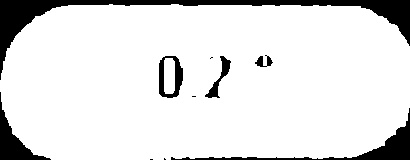
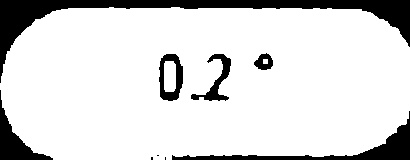
cambios proto OCR v03

diff --git a/Prototipos/OCR 1/T_B.py b/Prototipos/OCR 1/T_B.py
@@ -20,56 +20,22 @@ from skimage.filters import threshold_multiotsu
 import imutils
 
 
-image_file='captura5off.jpg'
+image_file='cap1long.jpg'
 img = cv2.imread(image_file)
-hsv = cv2.cvtColor(img,cv2.COLOR_BGR2RGB)
+pic=cv2.cvtColor(img,cv2.COLOR_BGR2RGB)
 
-
-def dibujo_contornos(picture):
-    imagen = picture
-    blurred = cv2.GaussianBlur(imagen, (5, 5), 0)
-    lower = np.array([39, 40, 38])
-    upper = np.array([55, 57, 75])
-    mask = cv2.inRange(blurred, lower, upper)
-    contours , _ = cv2.findContours(mask, cv2.RETR_TREE, cv2.CHAIN_APPROX_NONE)
-    for contour in contours:
-        area = cv2.contourArea(contour)
-        if area > 5000:
-            cv2.drawContours(imagen, contour, -1, (0, 255, 0), 3)
-            M = cv2.moments(contour)
-            cx = int(M["m10"]/M["m00"])
-            cy = int(M["m01"]/M["m00"])
-            #cv2.circle(imagen,(cx,cy),7,(255,255,255),-1)
-    return imagen,cx,cy
-imagenf,cx,cy=dibujo_contornos(hsv)
-
-def crop_img(image,cx,cy):#,x,y):#imgnp
-    fig0=image[ cy-40:cy+40,cx-100:cx+105,:]
-    return fig0
-imfig=crop_img(hsv,cx,cy)
-#GRaficas
-
-fig, ax = plt.subplots(nrows=1, ncols=2, figsize=(10, 3.5))
-
-# Plotting the original image.
-ax[0].imshow(imagenf)
-ax[0].set_title('Original')
-ax[0].axis('off')
-
-# Plotting the histogram and the two thresholds obtained from
-# # multi-Otsu.
-# ax[1].hist(img.ravel(), bins=255)
-# ax[1].set_title('Histogram')
-# for thresh in thres:
-#     ax[1].axvline(thresh, color='r')
-
-# Plotting the Multi Otsu result.
-ax[1].imshow(imfig, cmap='jet')
-ax[1].set_title('Mask')
-ax[1].axis('off')
-
-plt.subplots_adjust()
+def mask_manual(img,modo):
+    pic=cv2.cvtColor(img,cv2.COLOR_BGR2RGB)
+    if modo == 1:
+        mask1 = cv2.inRange(pic, (41, 41, 35), (49, 51, 76))
+        mask2 = cv2.inRange(pic, (36, 36, 36), (55, 58, 76))
+        mask = cv2.bitwise_or(mask1, mask2)
+    elif modo == 2:
+        mask = cv2.inRange(pic,(39,40,38),(55,57,75))
+    elif modo == 3:
+        mask = cv2.inRange(pic,(36,38,38),(60,60,70))
+    return mask
+maskar=mask_manual(img,3)
+show= plt.imshow(maskar)
+plt.title('Example',                                    fontweight ="bold")
 plt.show()
-
-
-

diff --git a/Prototipos/OCR 1/Proto_OCR_V03.py b/Prototipos/OCR 1/Proto_OCR_V03.py
@@ -129,8 +129,8 @@ def thin(image):
 #haciendo mas grande la fuente
 def thick(image):
     image = cv2.bitwise_not(image)
-    kernel = np.ones((4,2),np.uint8)
-    image = cv2.dilate(image,kernel,iterations=3)
+    kernel = np.ones((2,2),np.uint8)
+    image = cv2.dilate(image,kernel,iterations=2)
     image = cv2.bitwise_not(image)
     return image
 
@@ -273,7 +273,8 @@ blur_trim = Blurred(gray_trim)
 umb_trim = umbral(gray_trim)
 nonoise_trim = noise_removal(umb_trim) # imagen sin ruido
 thick_trim = thick(nonoise_trim)
-thick_trim = cv2.bitwise_not(thick_trim)
+thick_trim2 = thick(thick_trim)
+thick_trim = cv2.bitwise_not(thick_trim2)
 ocr_result3= pytesseract.image_to_string(thick_trim)#, config='digits') # con configuracion de digits no funciona bien, no lee nada.
 print('Digitos detectados:')
 print(ocr_result3)
